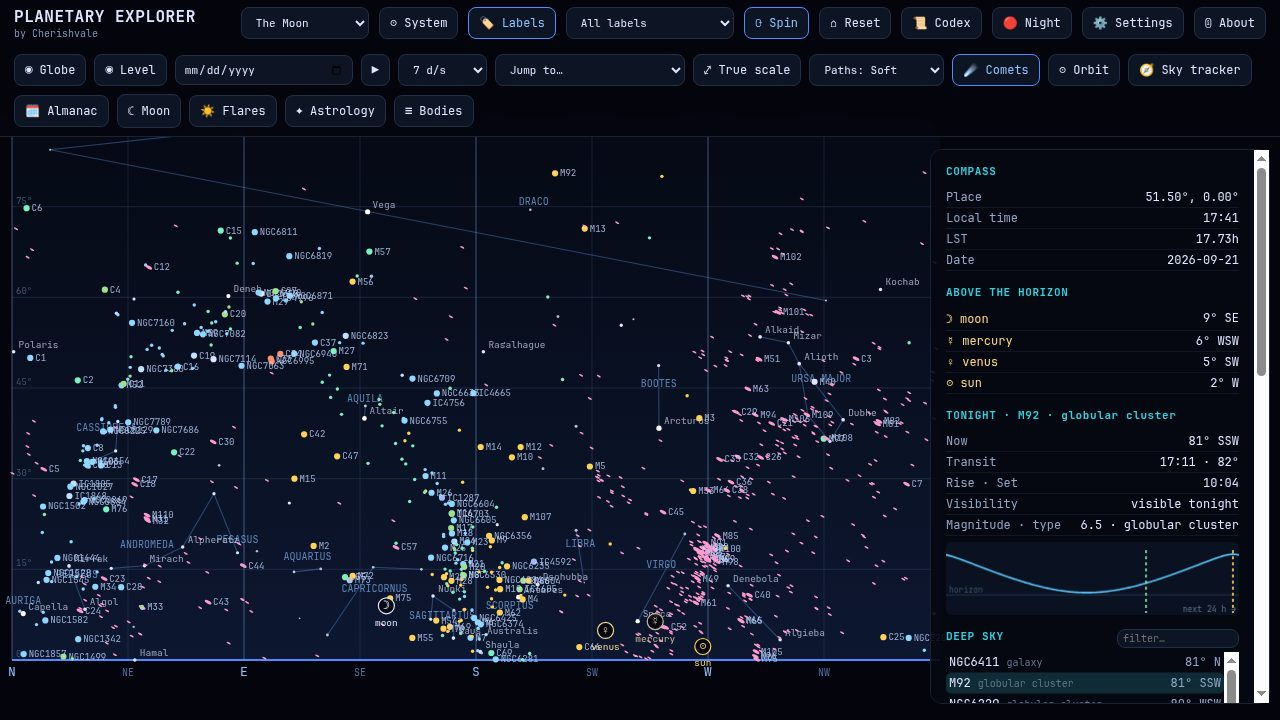
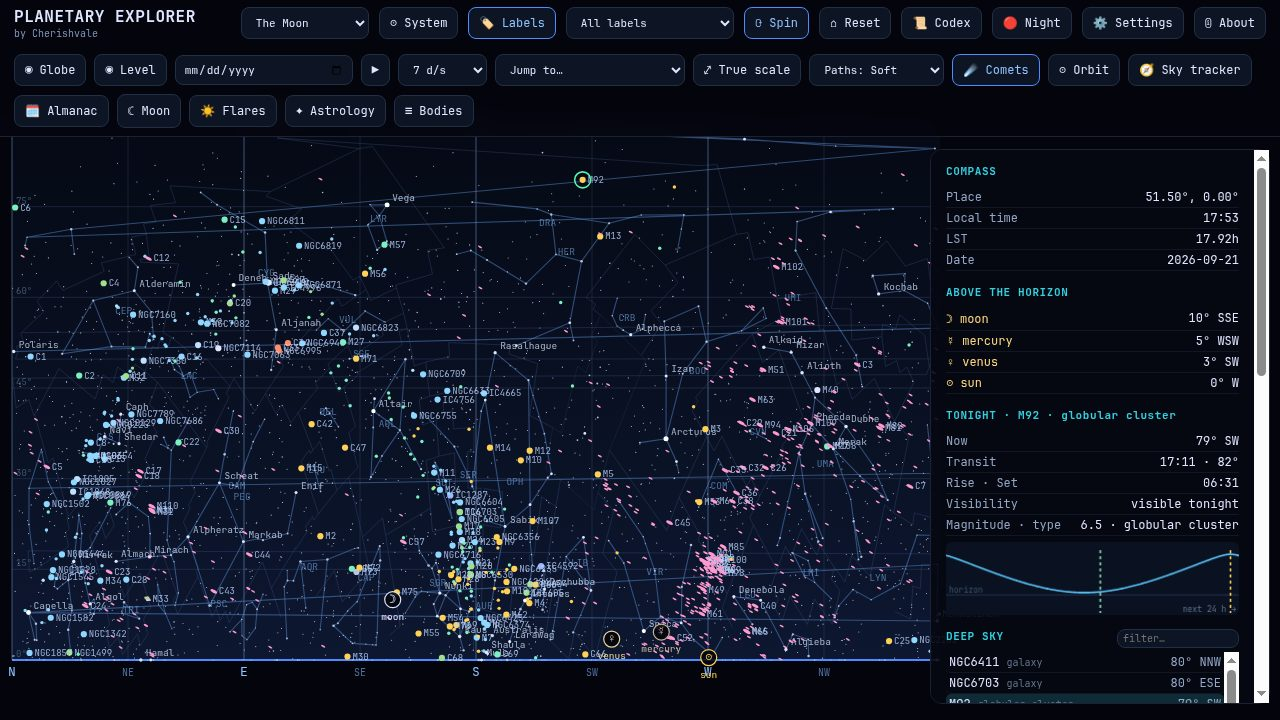
Planetary Explorer: full sky chart section + updated copy (v1.18.0)

diff --git a/planetary-explorer.html b/planetary-explorer.html
@@ -8,9 +8,9 @@
 <link rel="apple-touch-icon" href="/assets/logo/apple-touch-icon.png">
 
 <title>Planetary Explorer — by Cherishvale</title>
-<meta name="description" content="Planetary Explorer is an offline 3D atlas of the Solar System — 20 worlds, a live orbit map, 244,625 place names, street-level Earth, a full astrology studio, a 1,900-object deep-sky chart, a solar-flare projection of the Sun's active regions, and a 239-body historical codex.">
+<meta name="description" content="Planetary Explorer is an offline 3D atlas of the Solar System — 20 worlds, a live orbit map, 244,625 place names, street-level Earth, a full astrology studio, a 5,044-star chart with all 88 constellations, a solar-flare projection, and a 239-body codex.">
 <meta property="og:title" content="Planetary Explorer — by Cherishvale">
-<meta property="og:description" content="An offline 3D atlas of the Solar System. 20 worlds, a live orbit map, 244,625 place names, street-level Earth, and a 1,900-object deep-sky chart with a Tonight planner.">
+<meta property="og:description" content="An offline 3D atlas of the Solar System. 20 worlds, a live orbit map, 244,625 place names, street-level Earth, and a 5,044-star chart with all 88 constellations.">
 <meta property="og:type" content="website">
 <meta property="og:url" content="https://cherishvale.com/planetary-explorer">
 <style>
@@ -104,9 +104,9 @@
 </div>
 
 <div class="wrap" style="padding-top:34px">
-  <h2>A deep-sky chart in your pocket</h2>
+  <h2>The whole sky, drawn</h2>
   <div class="grid" style="grid-template-columns:repeat(auto-fit,minmax(300px,1fr))">
-    <a class="shot" href="assets/screens/deepsky.jpg"><img src="assets/screens/deepsky.jpg" alt="Deep-sky chart with 1,900 objects, a filter and a Tonight planner" loading="lazy"><span><b>1,900 deep-sky objects.</b> Every Messier and Caldwell, plus bright NGC/IC clusters, nebulae, planetary nebulae and galaxies, plotted where they are and coloured by type — over the Sun, Moon, planets, 115 bright stars and the constellation figures. Filter the list, tap an object, and read a <b>Tonight</b> plan: its altitude now, transit time and height, rise and set, and a 24-hour altitude curve. Toggle 🔴 Night mode to dim the whole app to red and keep your dark adaptation.</span></a>
+    <a class="shot" href="assets/screens/deepsky.jpg"><img src="assets/screens/deepsky.jpg" alt="A 5,044-star chart with constellations, deep-sky objects and a Tonight planner" loading="lazy"><span><b>5,044 stars. 88 constellations. 1,900 deep-sky objects.</b> A real chart of the night sky — every constellation with its stick figure and IAU boundary, thousands of stars, and the Messier, Caldwell and brightest NGC/IC galaxies, nebulae and clusters, plotted where they are and coloured by type. Filter the list, tap an object, and read a <b>Tonight</b> plan: its altitude now, transit time and height, rise and set, and a 24-hour altitude curve. Toggle 🔴 Night mode to dim the whole app to red and keep your dark adaptation.</span></a>
   </div>
 </div>
 
@@ -200,7 +200,7 @@
     <div class="card"><b>Astrology mode</b><p>A complete birth-chart engine — Ascendant, Midheaven and houses in Placidus, whole sign, equal or Porphyry, with positions, retrograde states, aspects, an aspect grid and a house table.</p></div>
     <div class="card"><b>Synastry</b><p>Compare two people on a single bi-wheel: both charts, every cross-aspect, an inter-aspect list and a synastry grid.</p></div>
     <div class="card"><b>Moon mode</b><p>The Moon's true phase for any date — illumination, age, distance, angular size, next phases, rise/set times and a month of phases at a glance.</p></div>
-    <div class="card"><b>Deep-sky chart</b><p>1,900 galaxies, nebulae and clusters — Messier, Caldwell and bright NGC/IC — plotted and searchable, with a Tonight planner for rise, transit, set and an altitude curve.</p></div>
+    <div class="card"><b>Full sky chart</b><p>5,044 stars, all 88 constellations with figures and IAU boundaries, and 1,900 deep-sky objects — Messier, Caldwell and bright NGC/IC — plotted and searchable, with a Tonight planner.</p></div>
     <div class="card"><b>Night mode</b><p>One tap dims the whole interface to red for dark-adapted observing, in the same spirit as dedicated astronomy apps.</p></div>
     <div class="card"><b>Almanac</b><p>A month calendar with sunrise, sunset, twilight, moonrise, moonset, day length, daily moon phase, the season dates and the full moon's traditional name.</p></div>
     <div class="card"><b>Solar-flare projection</b><p>The Sun's active regions from public-domain NOAA SWPC data, with our own geometry for flare risk and Earth impact, plus flare history, Kp and the solar wind — all offline.</p></div>

diff --git a/index.html b/index.html
@@ -77,8 +77,8 @@
       <div class="body">
         <h3>Planetary Explorer</h3>
         <p>An offline 3D atlas of the Solar System — 20 worlds, a live orbit map for any
-           date, 244,625 place names, street-level maps of Earth, a 1,900-object
-           deep-sky chart, and a solar-flare projection of the Sun's active regions.</p>
+           date, 244,625 place names, street-level maps of Earth, a 5,044-star chart
+           with all 88 constellations, and a solar-flare projection.</p>
         <span class="tag">COMING SOON · GOOGLE PLAY</span>
       </div>
     </a>
